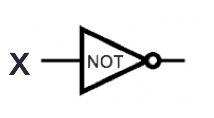
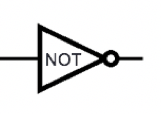
Week 3 notes and quizzes

Changed region(s): [[0.0, 0.1842, 0.7764, 0.8421], [0.8385, 0.4737, 0.9006, 0.5526]]

diff --git a/notes/lessons/Week3.tex b/notes/lessons/Week3.tex
@@ -1,0 +1,54 @@
+\input{../../resources/lesson-head.tex}
+
+\section*{Monday October 11}
+\input{../activity-snippets/logical-operators.tex}
+\input{../activity-snippets/logical-operators-truth-tables.tex}
+\input{../activity-snippets/logical-operators-example-truth-table.tex}
+\newpage
+\input{../activity-snippets/truth-table-to-compound-proposition.tex}
+\input{../activity-snippets/dnf-cnf-definition.tex}
+\input{../activity-snippets/dnf-cnf-example.tex}
+\newpage
+\input{../activity-snippets/compound-proposition-definitions.tex}
+\input{../activity-snippets/logical-equivalence.tex}
+\vfill
+\input{../activity-snippets/tautology-contradiction-contingency-examples.tex}
+\vfill
+\input{../activity-snippets/logical-equivalence-extra-example.tex}
+\vfill
+\newpage
+\subsection*{Review: Week 3 Monday}
+\begin{enumerate}
+    \item \input{../activity-snippets/quiz-circuit-tracing-with-or.tex}
+    \item \input{../activity-snippets/quiz-cnf-dnf.tex}
+\end{enumerate}
+\newpage
+\section*{Wednesday October 13}
+\input{../activity-snippets/logical-operators-full-truth-table.tex}
+\input{../activity-snippets/hypothesis-conclusion.tex}
+\input{../activity-snippets/converse-inverse-contrapositive.tex}
+\vfill
+\input{../activity-snippets/compound-propositions-precedence.tex}
+\newpage
+\input{../activity-snippets/logical-equivalence-identities.tex}
+\newpage
+\input{../activity-snippets/logical-operators-english-synonyms.tex}
+\newpage
+\subsection*{Review: Week 3 Wednesday}
+\begin{enumerate}
+    \item \input{../activity-snippets/quiz-truth-values-or-and.tex}
+    \item \input{../activity-snippets/quiz-truth-values-conditional.tex}
+\end{enumerate}
+\newpage
+\section*{Friday October 15}
+\input{../activity-snippets/compound-propositions-translation.tex}
+\newpage
+\input{../activity-snippets/consistency-def.tex}
+\input{../activity-snippets/consistency-example.tex}
+\newpage
+\subsection*{Review: Week 3 Friday}
+\begin{enumerate}
+    \item \input{../activity-snippets/quiz-compound-propositions-translation.tex}
+    \item \input{../activity-snippets/quiz-consistency.tex}
+\end{enumerate}
+\end{document}

diff --git a/notes/activity-snippets/logical-equivalence-identities.tex b/notes/activity-snippets/logical-equivalence-identities.tex
@@ -3,20 +3,45 @@
 
 {\bf (Some) logical equivalences}
 
+{\it Can replace $p$ and $q$ with any compound proposition}
+
 \begin{tabular}{llp{3in}}
 $\lnot ( \lnot p) \equiv p$ & & {\bf Double negation}\\
 && \\
+&& \\
 $p \lor q \equiv q \lor p$ & $p \land q \equiv q \land p$ & {\bf Commutativity} Ordering of terms\\
 && \\
+&& \\
 $(p \lor q) \lor r  \equiv p \lor (q \lor r)$ & $(p \land q) \land r  \equiv p \land (q \land r)$ & {\bf Associativity} Grouping of terms\\
+&& \\
 && \\
 $p \land F \equiv F$ \qquad $p \lor T \equiv T$ & $p \land T \equiv p$ \qquad $p \lor F \equiv p$ & {\bf Domination} aka 
 short circuit evaluation\\
 && \\
-$\lnot (p \land q) \equiv \lnot p \lor \lnot q$ & $\lnot (p \lor q) \equiv \lnot p \land\lnot q$  & {\bf DeMorgan's Laws}
+&& \\
+$\lnot (p \land q) \equiv \lnot p \lor \lnot q$ & $\lnot (p \lor q) \equiv \lnot p \land\lnot q$  & {\bf DeMorgan's Laws}\\
+&& \\
 \end{tabular}
 
+\begin{tabular}{llp{3in}}
+$p \to q \equiv \lnot p \lor q$ & & \\
+&& \\
+&& \\
+$p \to q \equiv \lnot q \to \lnot p$ & &{\bf Contrapositive} \\
+&& \\
+&& \\
+$\lnot (p \to q) \equiv p\land \lnot q$  & &\\
+&& \\
+&& \\
+$\lnot( p \leftrightarrow q) \equiv p \oplus q$ && \\
+&& \\
+&& \\
+$p \leftrightarrow q \equiv q \leftrightarrow p$ &&\\
+&& \\
+\end{tabular}
 
-{\it Can replace $p$ and $q$ with any compound proposition}
+{\it Extra examples}:
 
-\vfill
+$p \leftrightarrow q$ is not logically equivalent to $p \land q$ because \underline{\phantom{\hspace{4in}}} 
+
+$p \to q$ is not logically equivalent to $q \to p$ because \underline{\phantom{\hspace{4in}}} 

diff --git a/notes/activity-snippets/logical-operators-english-synonyms.tex b/notes/activity-snippets/logical-operators-english-synonyms.tex
@@ -1,0 +1,54 @@
+%! app: TODOapp
+%! outcome: TODOoutcome
+
+{\bf Common ways to express logical operators in English}:
+
+{\bf Negation} $\lnot p$ can be said in English as 
+\begin{itemize}
+\item Not $p$.
+\item It's not the case that $p$.
+\item $p$ is false.
+\end{itemize}
+
+{\bf Conjunction} $p \land q$ can be said in English as
+\begin{itemize}
+    \item $p$ and $q$.
+    \item Both $p$ and $q$ are true.
+    \item $p$ but $q$.
+\end{itemize}
+
+{\bf Exclusive or} $p \oplus q$ can be said in English as
+\begin{itemize}
+    \item $p$ or $q$, but not both.
+    \item Exactly one of $p$ and $q$ is true.
+\end{itemize}
+
+{\bf Disjunction} $p \lor q$ can be said in English as
+\begin{itemize}
+    \item $p$ or $q$, or both.
+    \item $p$ or $q$ (inclusive).
+    \item At least one of $p$ and $q$ is true.
+\end{itemize}
+
+{\bf Conditional} $p \to q$ can be said in English as
+\begin{multicols}{2}
+\begin{itemize}
+    \item if $p$, then $q$.
+    \item $p$ is sufficient for $q$.
+    \item $q$ when $p$.
+    \item $q$ whenever $p$.
+    \item $p$ implies $q$.
+    \item $q$ follows from $p$.
+    \item $p$ is sufficient for $q$.
+    \item $q$ is necessary for $p$.
+    \item $p$ only if $q$.
+\end{itemize}
+\end{multicols}
+
+{\bf Biconditional}
+\begin{itemize}
+    \item $p$ if and only if $q$.
+    \item $p$ iff $q$.
+    \item If $p$ then $q$, and conversely.
+    \item $p$ is necessary and sufficient for $q$.
+\end{itemize}

diff --git a/notes/activity-snippets/logical-equivalence.tex b/notes/activity-snippets/logical-equivalence.tex
@@ -1,12 +1,13 @@
 %! app: TODOapp
 %! outcome: TODOoutcome
 
-\begin{tabular}{lp{4in}p{2in}}
-{\bf Logical equivalence } &Two compound  propositions are {\bf logically  equivalent} means that  they 
-have the  same  truth  values for all settings of truth  values to their propositional  variables.\\
-{\bf Tautology} & A compound proposition that evaluates to true
-for all settings of truth  values to its propositional  variables; it is  abbreviated $T$.\\
-{\bf Contradiction} & A compound proposition that  evaluates  to  false 
-for  all settings of truth  values to its propositional  variables; it  is abbreviated $F$.\\
-{\bf Contingency} & A compound proposition that is neither a tautology nor a contradiction.\\
-\end{tabular}
+{\bf Logical equivalence }: Two compound  propositions are {\bf logically  equivalent} means that  they 
+have the  same  truth  values for all settings of truth  values to their propositional  variables.
+
+{\bf Tautology}:  A compound proposition that evaluates to true
+for all settings of truth  values to its propositional  variables; it is  abbreviated $T$.
+
+{\bf Contradiction}: A compound proposition that  evaluates  to  false 
+for  all settings of truth  values to its propositional  variables; it  is abbreviated $F$.
+
+{\bf Contingency}: A compound proposition that is neither a tautology nor a contradiction.

diff --git a/notes/activity-snippets/truth-table-to-compound-proposition.tex b/notes/activity-snippets/truth-table-to-compound-proposition.tex
@@ -1,12 +1,8 @@
 %! app: TODOapp
 %! outcome: TODOoutcome
 
-Given a compound proposition, we can use truth tables for sub-propositions
-and/or logical equivalences
-to compute its truth value for specific input values.
-
-In the other direction: given a truth table, how do we find a 
-compound proposition that has the 
+Given a truth table, how do we find an expression
+using the input variables and logical operators that has the 
 output values specified in this table?
 
 {\it Application}: design a circuit given a desired input-output relationship.
@@ -24,28 +20,10 @@ $F$ & $F$  & $T$ & $T$\\
 \end{center}
 
 
-A compound proposition that  gives output $mystery_1$ is: \underline{\phantom{\hspace{3in}}}
+Expressions that have output $mystery_1$ are
 
+\vspace{100pt}
 
-\vfill
+Expressions that have output $mystery_2$ are
 
-
-A compound proposition that  gives output $mystery_2$ is: \underline{\phantom{\hspace{3in}}}
-
-
-\vfill
-
-\begin{tabular}{ccc||c}
-    \multicolumn{3}{c||}{Input}  & Output\\
-    $p$ & $q$ & $r$  &  ?\\
-    \hline
-    $T$ & $T$  & $T$ & $T$ \\
-    $T$ & $T$  & $F$ & $T$ \\
-    $T$ & $F$  & $T$ & $F$ \\
-    $T$ & $F$  & $F$ & $T$ \\
-    $F$ & $T$  & $T$ & $F$ \\
-    $F$ & $T$  & $F$ & $F$ \\
-    $F$ & $F$  & $T$ & $T$ \\
-    $F$ & $F$  & $F$ & $F$ \\
-\end{tabular}
-    
+\vspace{100pt}

diff --git a/notes/activity-snippets/compound-proposition-definitions.tex b/notes/activity-snippets/compound-proposition-definitions.tex
@@ -1,12 +1,13 @@
 %! app: TODOapp
 %! outcome: TODOoutcome
 
-\begin{tabular}{lp{5in}}
-    {\bf Proposition} & Declarative sentence that is true or false (not both).\\
-    {\bf Propositional variable} & Variable that represents a proposition.\\
-    {\bf Compound proposition}& New propositions formed from existing propositions (potentially) using logical operators.\\
-    {\bf Truth table}& Table with one row for each of the possible combinations of truth values of the input and 
+{\bf Proposition}: Declarative sentence that is true or false (not both).
+
+{\bf Propositional variable}: Variable that represents a proposition.
+
+{\bf Compound proposition}: New proposition formed from existing propositions (potentially) using logical operators.
+{\it Note}: A propositional variable is one example of a compound proposition.
+
+{\bf Truth table}: Table with one row for each of the possible combinations of truth values of the input and 
     an additional column that shows the truth value of the result of the operation corresponding to a particular row.
-    \end{tabular}
     
-    {\it Note}: A propositional variable is one example of a compound proposition.

diff --git a/notes/activity-snippets/quiz-compound-propositions-translation.tex b/notes/activity-snippets/quiz-compound-propositions-translation.tex
@@ -1,0 +1,29 @@
+%! app: TODOapp
+%! outcome: TODOoutcome
+
+Express each of the following sentences as compound propositions, using
+the given propositions.
+
+\begin{enumerate}
+\item ``If you try to run Zoom while your computer is running many applications,
+the video is likely to be choppy and laggy." $t$ is ``you run Zoom while your
+computer is running many applications'', $c$ is ``the video is likely to be choppy'',
+$g$ is ``the video is likely to be laggy''
+\begin{enumerate}
+    \item $t \to (c \land g)$
+    \item $(c \land g) \to t$
+    \item $(c \land g) \leftrightarrow t$
+    \item $t \oplus (c \land g)$
+\end{enumerate}
+\item ``To connect wirelessly on campus without logging in you need to use
+the UCSD-Guest network."  $c$ is ``connect wirelessly 
+on campus'', $g$ is ``logging in'', and $u$ is ``use UCSD-Guest network''.
+\begin{enumerate}
+    \item $c \land \lnot g \land u$
+    \item $(c \land \lnot g) \lor u$
+    \item $(c \land \lnot g) \oplus u$
+    \item $(c \land \lnot g) \to u$
+    \item $u \to (c \land \lnot g)$
+    \item $u \leftrightarrow (c \land \lnot g)$
+\end{enumerate}
+\end{enumerate}

diff --git a/notes/activity-snippets/dnf-cnf-definition.tex b/notes/activity-snippets/dnf-cnf-definition.tex
@@ -1,15 +1,10 @@
 %! app: TODOapp
 %! outcome: TODOoutcome
 
-{\bf  Definition} A compound proposition is in {\bf disjunctive normal form}  (DNF) means
-that  it is an OR of ANDs of variables and their negations.
+{\bf  Definition} An expression built of variables and logical 
+operators is in {\bf disjunctive normal form}  (DNF) means
+that it is an OR of ANDs of variables and their negations.
 
-{\bf  Definition} A compound proposition is in {\bf conjunctive normal form}  (CNF) means
-that  it is an AND of ORs of variables and their negations.
-
-
-{\it Extra example}: A compound proposition that  gives output ? is: 
-
-
-\vfill
-\vfill
+{\bf  Definition} An expression built of variables and logical 
+operators is in {\bf conjunctive normal form}  (CNF) means
+that it is an AND of ORs of variables and their negations.

diff --git a/notes/activity-snippets/converse-inverse-contrapositive.tex b/notes/activity-snippets/converse-inverse-contrapositive.tex
@@ -1,14 +1,8 @@
 %! app: TODOapp
 %! outcome: TODOoutcome
 
-\begin{tabular}{ll}
-    The {\bf  converse}  of $p \to q$ is & \underline{\phantom{\hspace{1.6in}}}\\
-    &  \\
-    The {\bf  inverse}  of $p \to q$ is  &\underline{\phantom{\hspace{1.6in}}}\\
-    &  \\
-    The {\bf  contrapositive}  of $p \to q$ is & \underline{\phantom{\hspace{1.6in}}}
-    \end{tabular}
-    Which of these is logically equivalent to $p \to q$?
-    
-    \vfill
-    \vfill
+The {\bf converse}  of $p \to q$ is \underline{\phantom{ $q \to p$\hspace{1.6in}}}\\
+
+The {\bf inverse}  of $p \to q$ is \underline{\phantom{ $\lnot p \to \lnot q$\hspace{1.6in}}}\\
+
+The {\bf contrapositive}  of $p \to q$ is \underline{\phantom{$\lnot q \to \lnot p$\hspace{1.6in}}} \\

diff --git a/notes/activity-snippets/logical-operators-full-truth-table.tex b/notes/activity-snippets/logical-operators-full-truth-table.tex
@@ -1,0 +1,18 @@
+%! app: TODOapp
+%! outcome: TODOoutcome
+
+\begin{center}
+    \begin{tabular}{cc||c|c|c|c|c}
+    \multicolumn{2}{c||}{Input}  & \multicolumn{5}{c}{Output} \\
+     & & Conjunction &  Exclusive or & Disjunction  &  Conditional & Biconditional  \\
+    $p$ & $q$ & $p \wedge q$ &  $p  \oplus  q$ & $p \vee  q$ & $p \to q$ & $p \leftrightarrow q$\\
+    \hline
+    $T$ & $T$ & $T$ & $F$ & $T$ & $T$& $T$\\
+    $T$ & $F$ & $F$ & $T$ & $T$ & $F$& $F$\\
+    $F$ & $T$ & $F$ & $T$ & $T$ & $T$& $F$\\
+    $F$ & $F$ & $F$ & $F$ & $F$ & $T$& $T$\\
+    \hline
+    && ``$p$ and $q$'' & ``$p$ xor $q$'' & ``$p$ or $q$'' & ``if $p$ then $q$'' & ``$p$ if and only if $q$''
+    \end{tabular}
+\end{center}
+    

diff --git a/notes/activity-snippets/logical-equivalence-example-two.tex b/notes/activity-snippets/logical-equivalence-example-two.tex
@@ -1,19 +1,6 @@
 %! app: TODOapp
 %! outcome: TODOoutcome
 
-\begin{center}
-    \begin{tabular}{cc||c|c|c|c|c}
-    \multicolumn{2}{c||}{Input}  & \multicolumn{5}{c}{Output} \\
-     & & Conjunction &  Exclusive or & Disjunction  &  Conditional & Biconditional  \\
-    $p$ & $q$ & $p \wedge q$ &  $p  \oplus  q$ & $p \vee  q$ & $p \to q$ & $p \leftrightarrow q$\\
-    \hline
-    $T$ & $T$ & $T$ & $F$ & $T$ & $T$& $T$\\
-    $T$ & $F$ & $F$ & $T$ & $T$ & $F$& $F$\\
-    $F$ & $T$ & $F$ & $T$ & $T$ & $T$& $F$\\
-    $F$ & $F$ & $F$ & $F$ & $F$ & $T$& $T$\\
-    \end{tabular}
-    \end{center}
-    
     {\it Examples} 
     
     $p \to q \equiv \lnot p \lor q$ because \underline{\phantom{\hspace{4in}}} 

diff --git a/notes/activity-snippets/logical-operators-truth-tables.tex b/notes/activity-snippets/logical-operators-truth-tables.tex
@@ -11,6 +11,10 @@ $T$ & $T$ & $T$ & $F$ & $T$\\
 $T$ & $F$ & $F$ & $T$ & $T$\\
 $F$ & $T$ & $F$ & $T$ & $T$\\
 $F$ & $F$ & $F$ & $F$ & $F$\\
+\hline
+& & \includegraphics[width=0.5in]{../../resources/images/xANDy.png}
+&  \includegraphics[width=0.5in]{../../resources/images/xXORy.png}
+&  \includegraphics[width=0.5in]{../../resources/images/xORy.png}
 \end{tabular}
 \qquad \qquad\qquad
 \begin{tabular}{c||c}
@@ -20,7 +24,6 @@ $p$ & $\lnot p$ \\
 \hline
 $T$ & $F$ \\
 $F$ & $T$\\
+\hline & \includegraphics[width=0.5in]{../../resources/images/NOTx.png}
 \end{tabular}
 \end{center}
-
-\vfill
